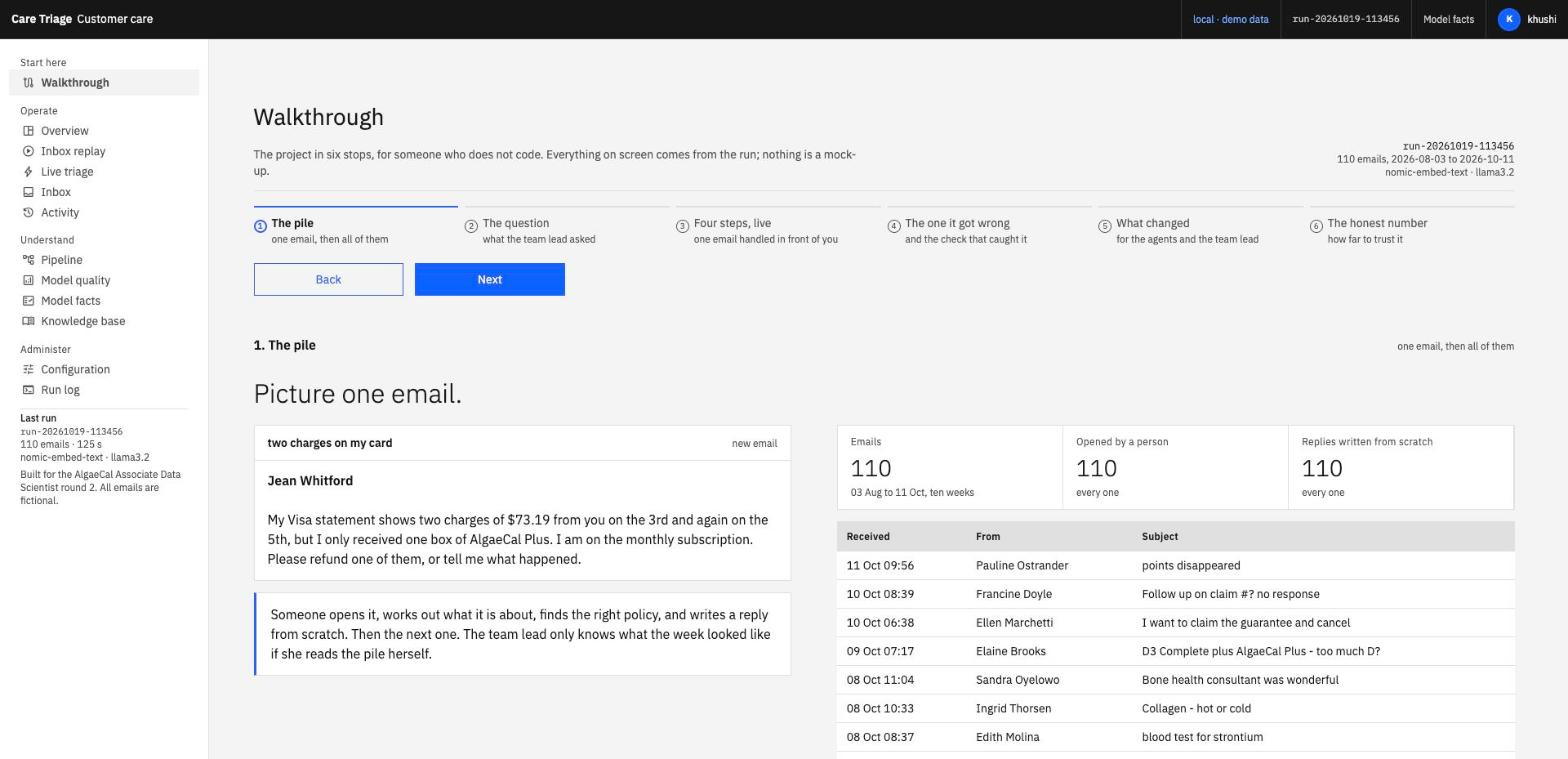
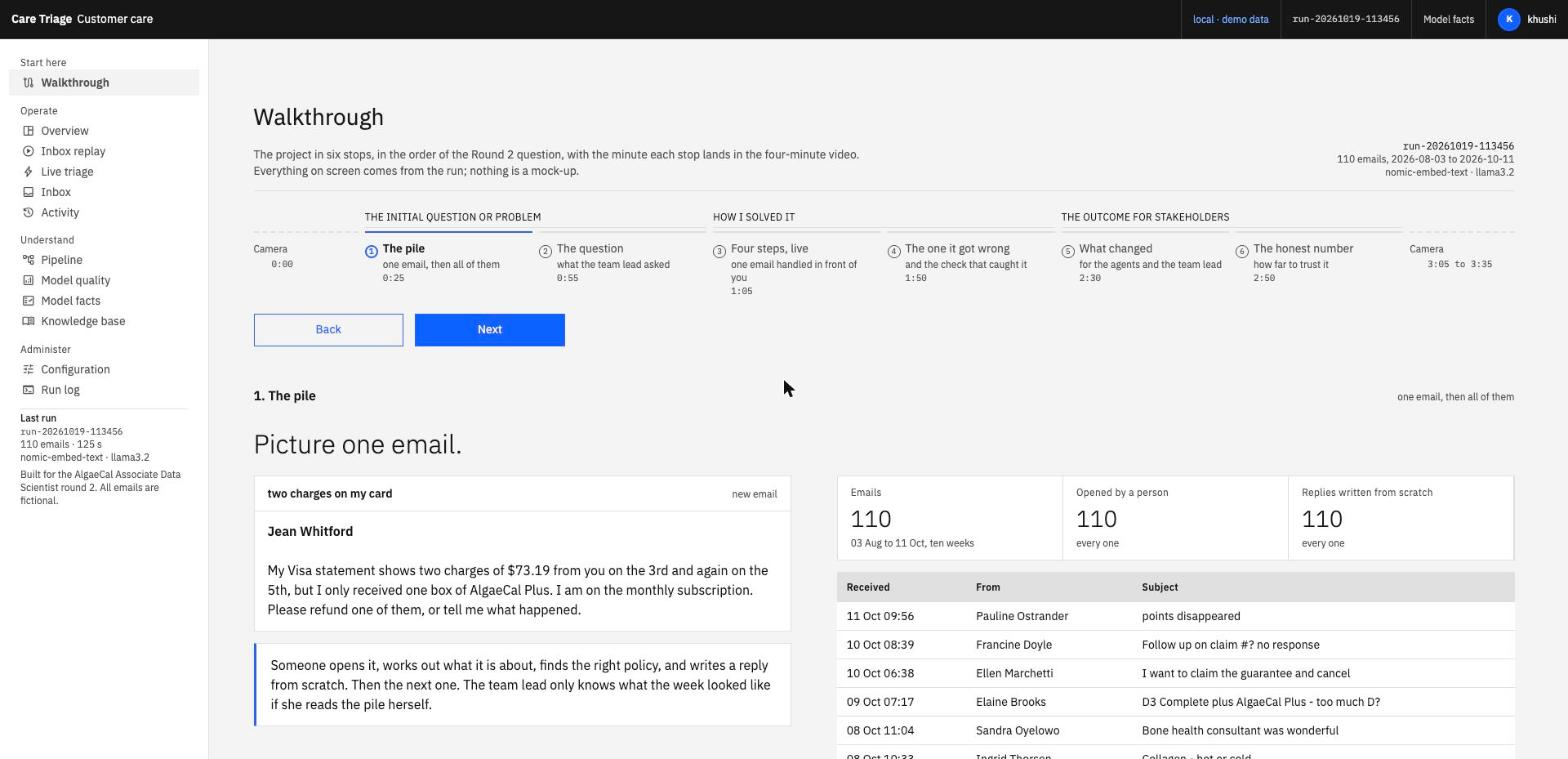
Walkthrough: chapters in the question's words and a time stamp per stop for the four-minute video

diff --git a/app/walkthrough.py b/app/walkthrough.py
@@ -15,19 +15,27 @@ from ui import (G40, G90, INK, GREY, LINE, BLUE, CRIT, h, page_header, footer, s
 import live
 import views
 
-BEATS = [("The pile", "one email, then all of them"),
-         ("The question", "what the team lead asked"),
-         ("Four steps, live", "one email handled in front of you"),
-         ("The one it got wrong", "and the check that caught it"),
-         ("What changed", "for the agents and the team lead"),
-         ("The honest number", "how far to trust it")]
+# (name, sub, time stamp in the four-minute video). The three chapters below are the
+# three parts of the Round 2 question, in its own words.
+BEATS = [("The pile", "one email, then all of them", "0:25"),
+         ("The question", "what the team lead asked", "0:55"),
+         ("Four steps, live", "one email handled in front of you", "1:05"),
+         ("The one it got wrong", "and the check that caught it", "1:50"),
+         ("What changed", "for the agents and the team lead", "2:30"),
+         ("The honest number", "how far to trust it", "2:50")]
+CHAPTERS = [("The initial question or problem", 2), ("How I solved it", 2), ("The outcome for stakeholders", 2)]
 
 CSS = f"""<style>
-.prog {{ display: grid; grid-template-columns: repeat(6, 1fr); gap: 8px; margin: 4px 0 18px; }}
-.pstep {{ border-top: 2px solid {LINE}; padding: 8px 8px 0 0; min-height: 52px; }}
+.chap {{ display: grid; grid-template-columns: 1fr repeat(6, 1.6fr) 1fr; gap: 8px; margin: 10px 0 0; }}
+.chap div {{ font-size: 12px; line-height: 16px; letter-spacing: 0.32px; color: {GREY}; text-transform: uppercase; padding: 0 0 4px; }}
+.chap div.c {{ color: {INK}; border-bottom: 1px solid {LINE}; }}
+.prog {{ display: grid; grid-template-columns: 1fr repeat(6, 1.6fr) 1fr; gap: 8px; margin: 4px 0 18px; }}
+.pstep {{ border-top: 2px solid {LINE}; padding: 8px 8px 0 0; min-height: 56px; }}
 .pstep .n {{ display: inline-flex; width: 16px; height: 16px; border-radius: 50%; border: 1px solid {GREY}; color: {GREY}; font-size: 10px; align-items: center; justify-content: center; margin-right: 6px; vertical-align: -2px; }}
 .pstep .l {{ font-size: 14px; line-height: 18px; color: {GREY}; }}
 .pstep .s {{ font-size: 12px; line-height: 16px; color: {GREY}; margin-left: 22px; }}
+.pstep .t {{ font-family: 'IBM Plex Mono', Menlo, monospace; font-size: 11px; color: {GREY}; margin-left: 22px; }}
+.pstep.cam {{ border-top-style: dashed; }} .pstep.cam .l {{ font-size: 12px; }}
 .pstep.done {{ border-top-color: {BLUE}; }} .pstep.done .n {{ background: {BLUE}; border-color: {BLUE}; color: #fff; }} .pstep.done .l {{ color: {INK}; }}
 .pstep.now {{ border-top-color: {BLUE}; }} .pstep.now .n {{ border: 2px solid {BLUE}; color: {BLUE}; font-weight: 600; }} .pstep.now .l {{ color: {INK}; font-weight: 600; }}
 .display {{ font-size: 32px; line-height: 42px; font-weight: 300; color: {INK}; max-width: 34ch; margin: 6px 0 18px; letter-spacing: 0; }}
@@ -39,11 +47,13 @@ CSS = f"""<style>
 
 
 def _progress(i):
-    cells = ""
-    for k, (name, sub) in enumerate(BEATS):
+    chap = '<div></div>' + "".join(f'<div class="c" style="grid-column: span {n}">{name}</div>' for name, n in CHAPTERS) + '<div></div>'
+    cells = '<div class="pstep cam"><span class="l">Camera</span><div class="t">0:00</div></div>'
+    for k, (name, sub, t) in enumerate(BEATS):
         cls = "done" if k < i else ("now" if k == i else "")
-        cells += f'<div class="pstep {cls}"><span class="n">{k+1}</span><span class="l">{name}</span><div class="s">{sub}</div></div>'
-    h(f'<div class="prog">{cells}</div>')
+        cells += f'<div class="pstep {cls}"><span class="n">{k+1}</span><span class="l">{name}</span><div class="s">{sub}</div><div class="t">{t}</div></div>'
+    cells += '<div class="pstep cam"><span class="l">Camera</span><div class="t">3:05 to 3:35</div></div>'
+    h(f'<div class="chap">{chap}</div><div class="prog">{cells}</div>')
 
 
 def _email_card(name, subject, body, meta="new email"):
@@ -65,10 +75,10 @@ def walkthrough():
     df, run, tr = load_results(), load_json("run"), load_trace()
     h(CSS)
     i = st.session_state.setdefault("wt", 0)
-    page_header("Walkthrough", "The project in six stops, for someone who does not code. Everything on screen comes from the run; nothing is a mock-up.", run)
+    page_header("Walkthrough", "The project in six stops, in the order of the Round 2 question, with the minute each stop lands in the four-minute video. Everything on screen comes from the run; nothing is a mock-up.", run)
     _progress(i)
     _nav(i, "top")
-    name, sub = BEATS[i]
+    name, sub, _t = BEATS[i]
     section(f"{i+1}. {name}", sub)
 
     n = len(df); calls = int((df.route == "consultant_call").sum()); drafts = n - calls
